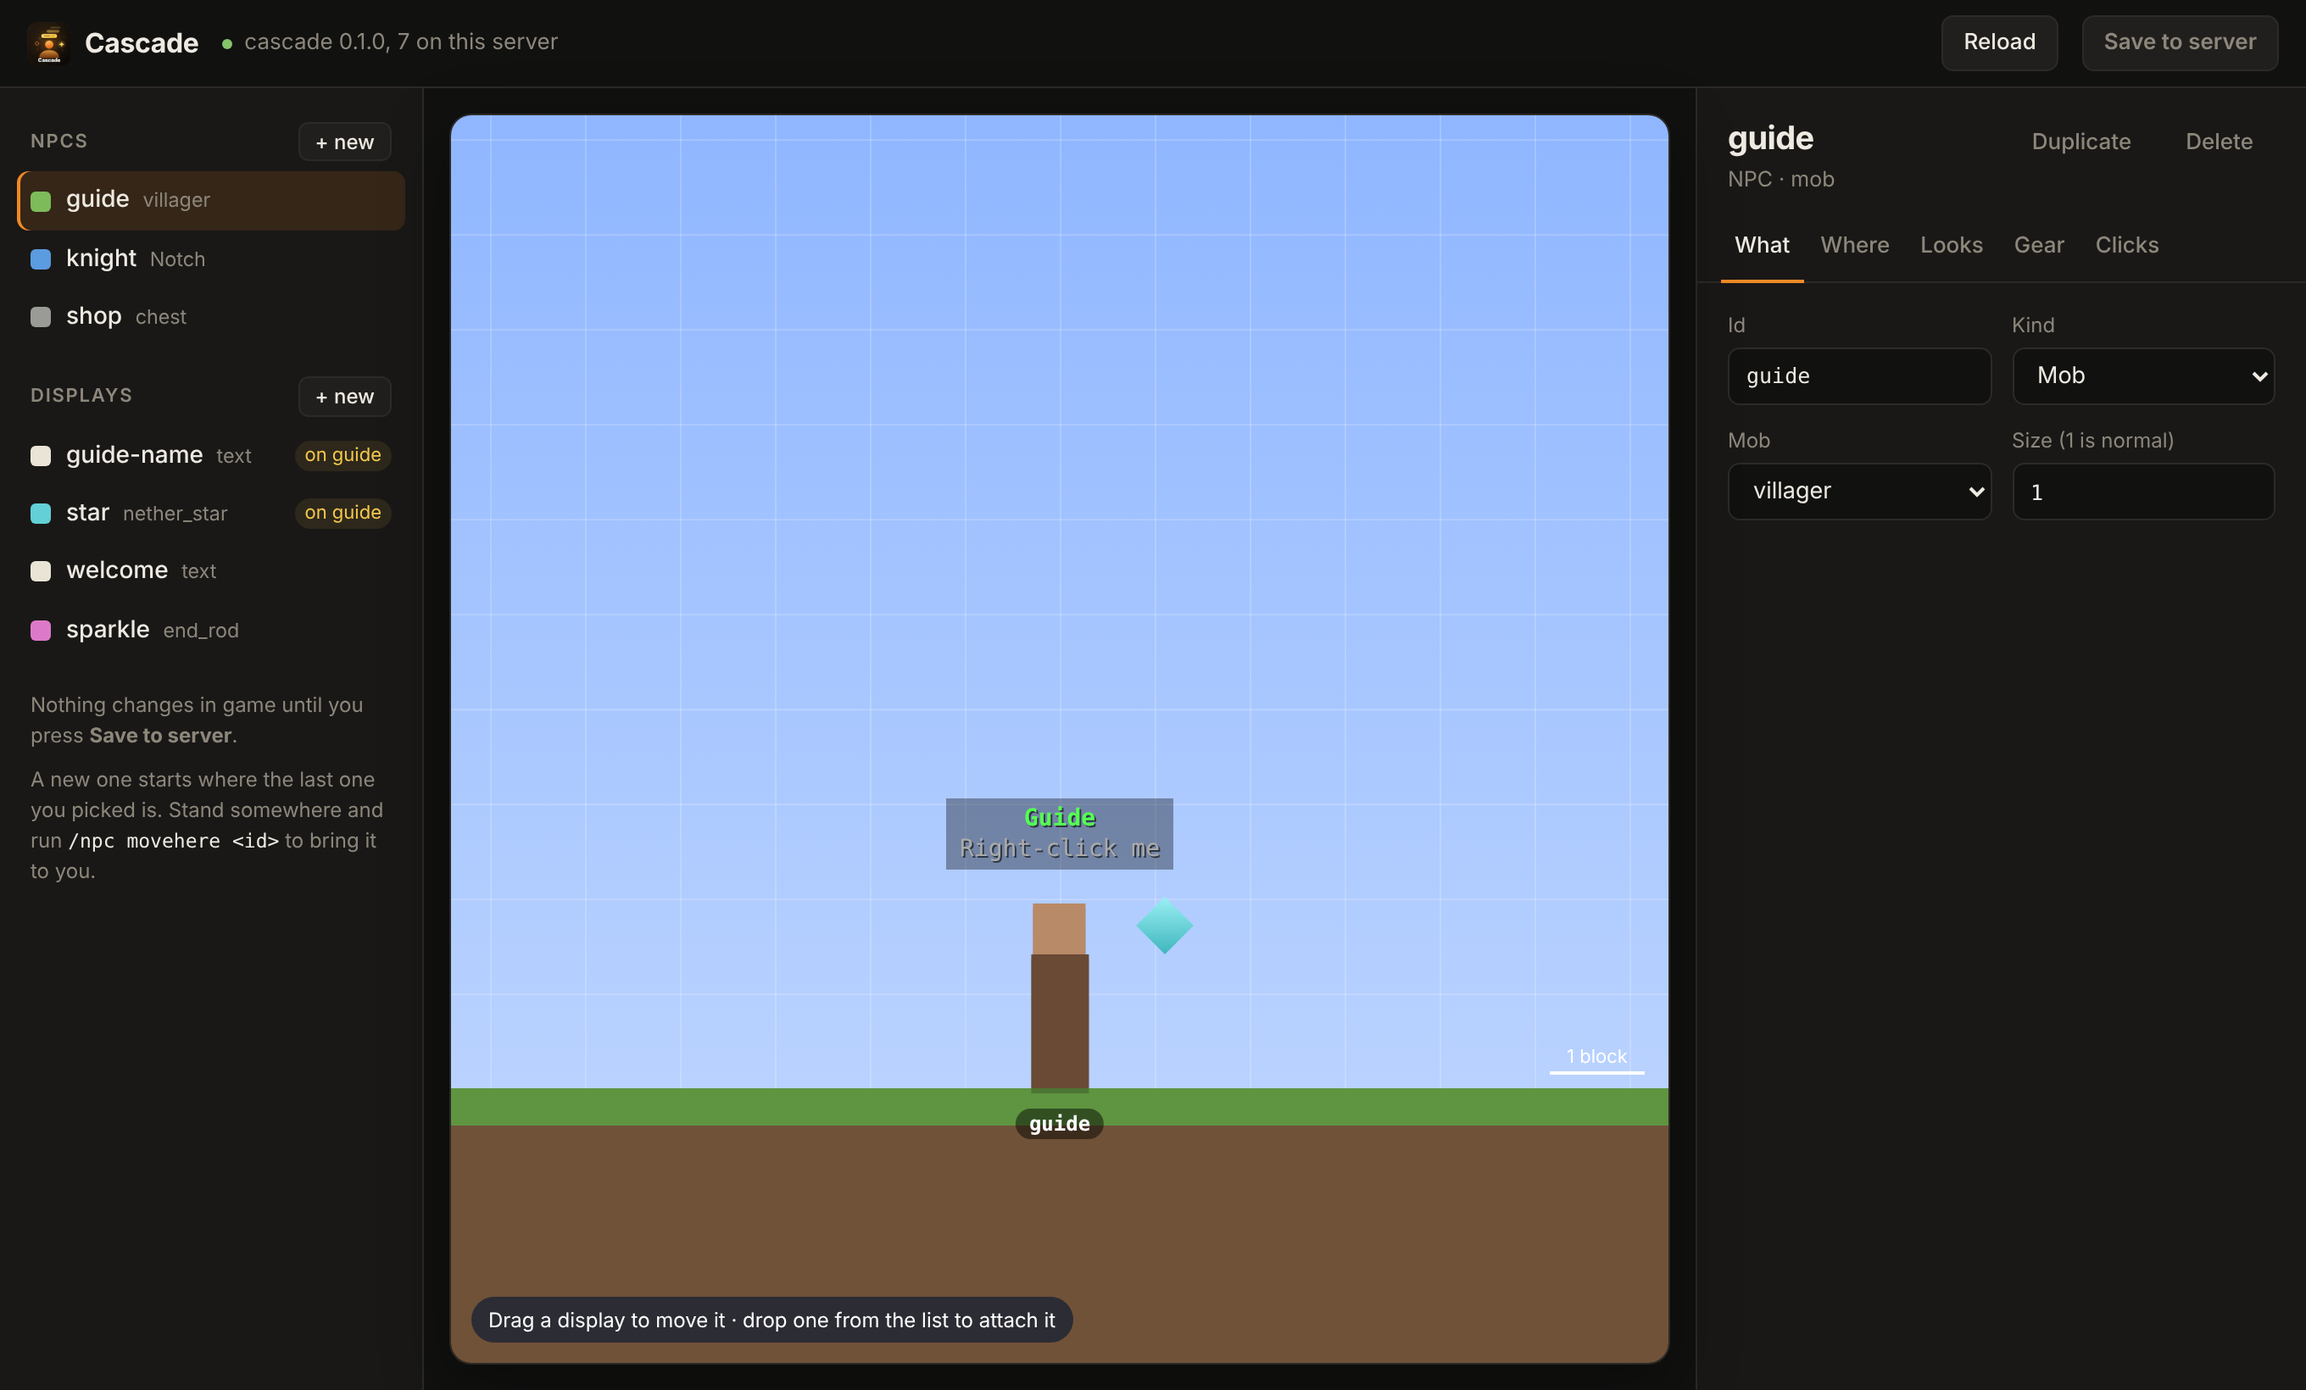
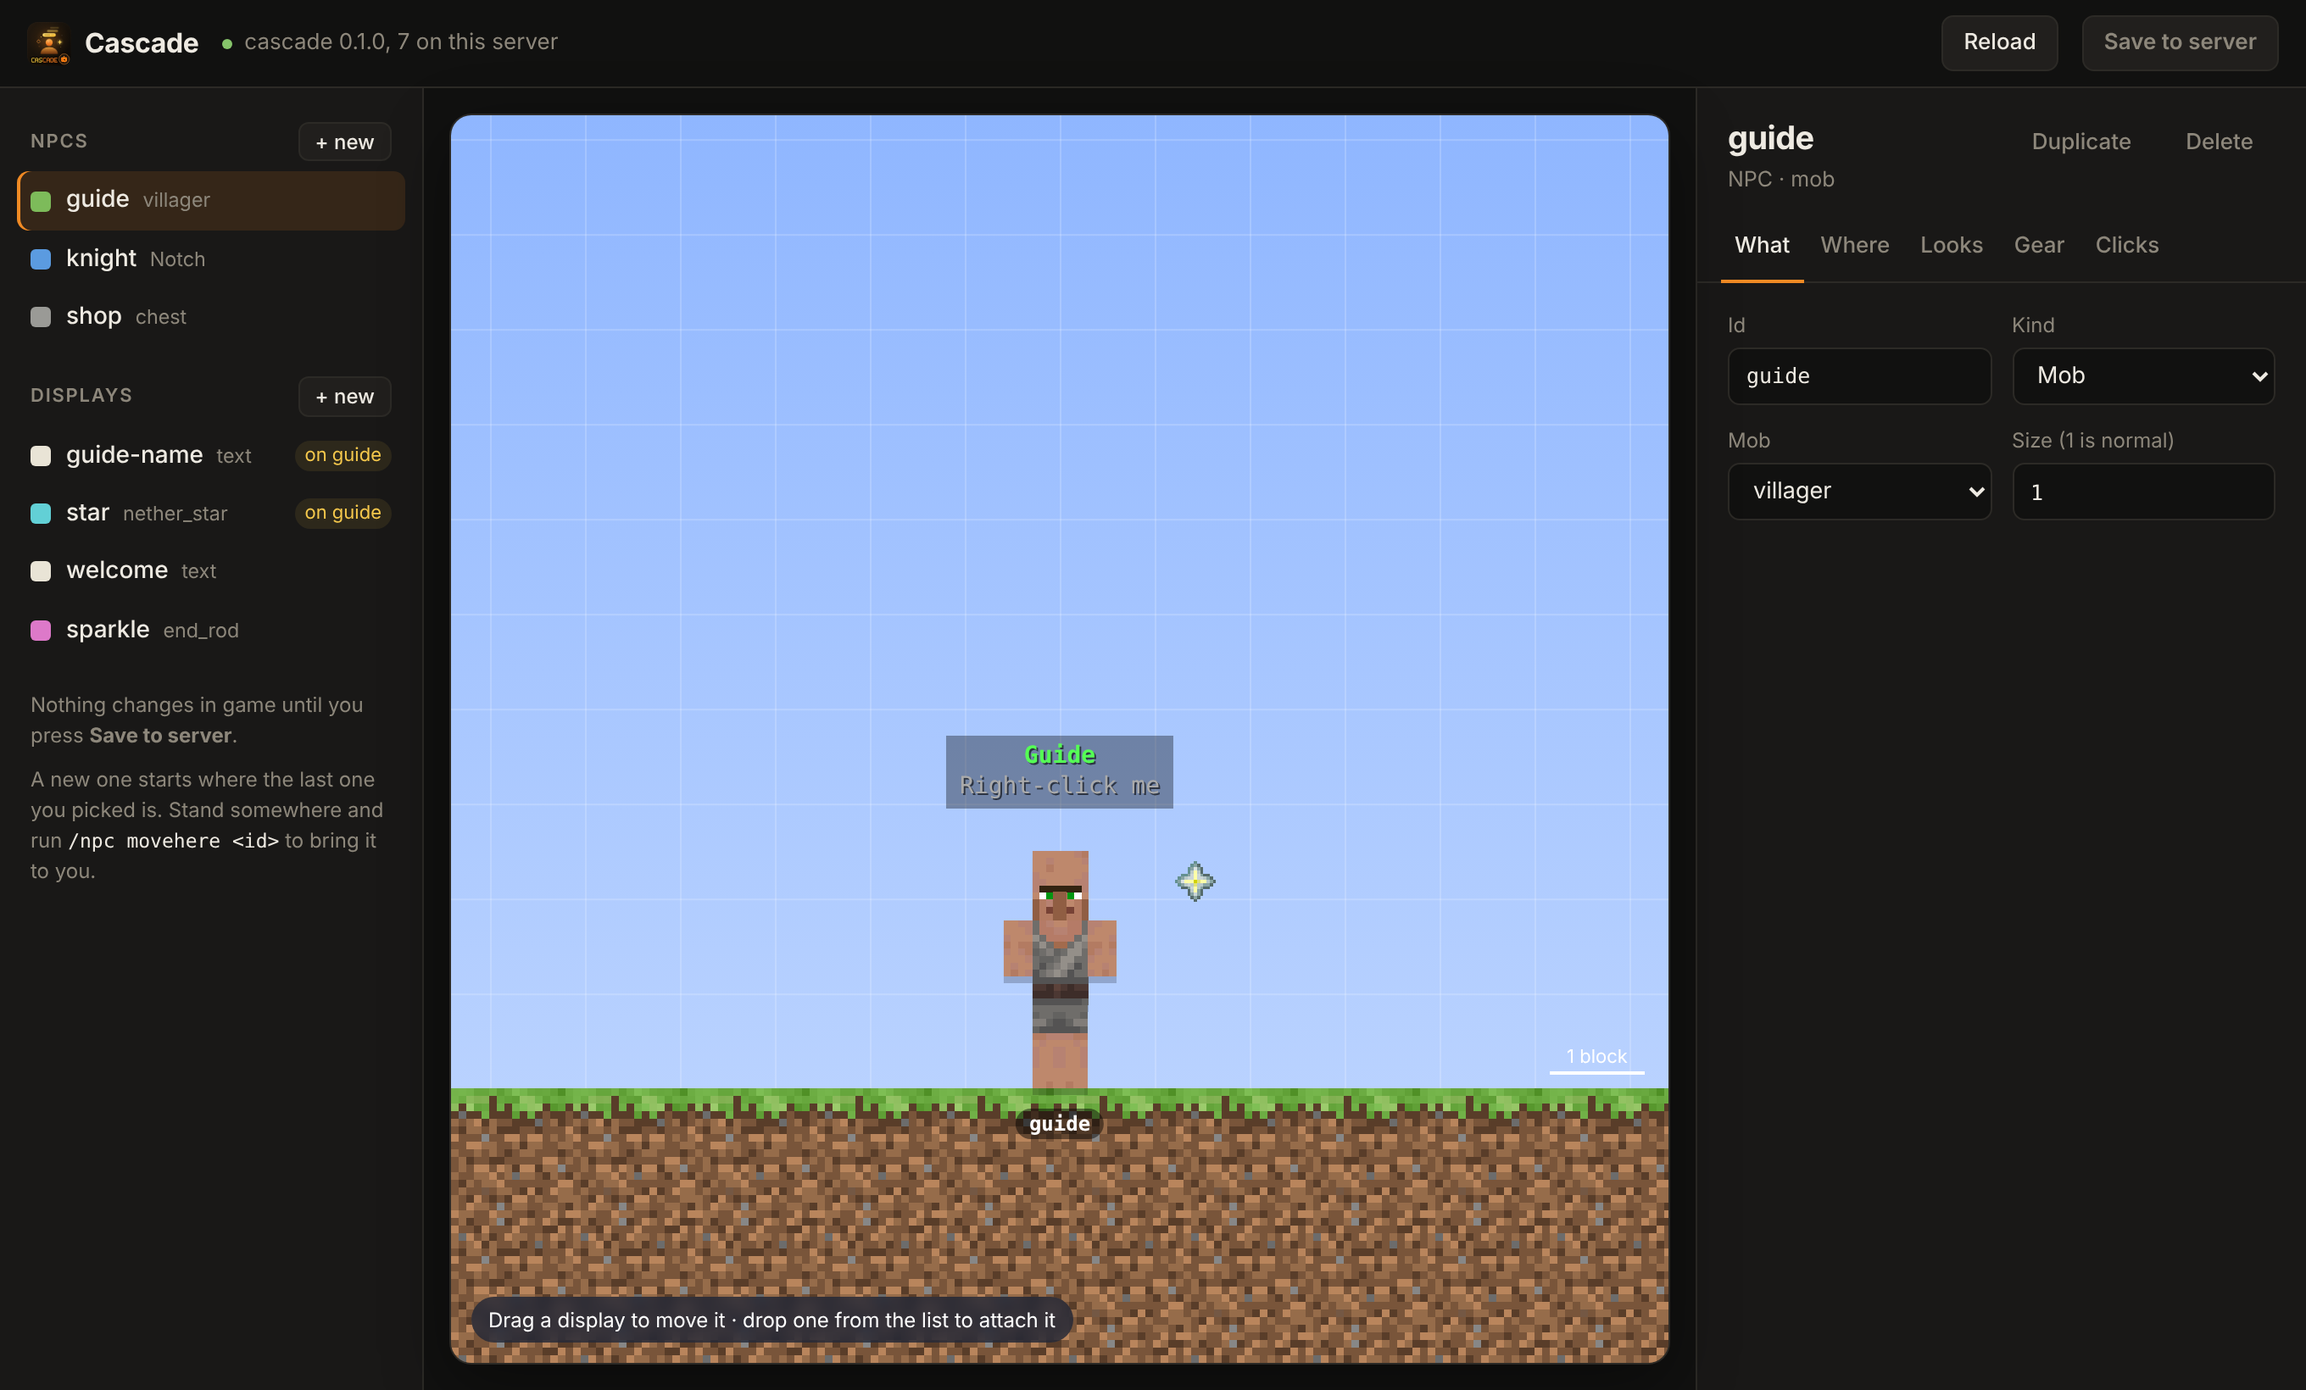
Web editor: draw mobs, players, blocks and items from the game's textures

Changed region(s): [[0.1875, 0.5287, 0.7188, 0.9951], [0.0, 0.0311, 0.0312, 0.0622]]

diff --git a/web/editor.html b/web/editor.html
@@ -80,20 +80,33 @@ textarea{height:auto;min-height:92px;padding:8px 10px;resize:vertical;font-famil
 .mobfig i{background:#b98a67;flex:0 0 28%;margin:0 4%} .mobfig b{background:#6a4a35;flex:1} .mobfig u{display:none}
 .cubefig{background:linear-gradient(135deg,#a8a8a4,#7d7d79)}
 .itemfig{background:linear-gradient(135deg,#9af0f4,#3fb6bd);transform:translateX(-50%) rotate(45deg)}
+/* everything drawn from the game's own textures keeps its hard pixels */
+.px,.part,.face,.ground,.map{image-rendering:pixelated}
+.ground{position:absolute;left:0;right:0;bottom:0;height:22%}
+.doll{display:block;filter:drop-shadow(0 4px 0 #0003)}
+.part{position:absolute;background-repeat:no-repeat}
+.egg{display:block;filter:drop-shadow(0 4px 0 #0003)}
+.skin{display:block;height:100%;width:auto;filter:drop-shadow(0 4px 0 #0003)}
+.face{position:absolute;inset:0;background:#8d8d89;overflow:hidden;box-shadow:inset 0 0 0 1px #0003}
+.face img{width:100%;height:100%;display:block}
+.sprite{display:block;width:100%;height:100%}
 .fig-name{position:absolute;bottom:-30px;transform:translateX(-50%);white-space:nowrap;color:#fff;font:600 12px var(--mono);background:#0007;padding:2px 8px;border-radius:99px}
 .chip{position:absolute;transform:translate(-50%,0);cursor:grab;white-space:pre;text-align:center;z-index:2;transition:box-shadow .12s}
 .chip:active{cursor:grabbing}
 .chip:hover{box-shadow:0 0 0 2px #fff9}
 .chip.sel{box-shadow:0 0 0 2px var(--accent)}
 .chip.k-text{background:#00000059;padding:3px 8px;font:14px/1.3 var(--mono);text-shadow:1px 1px 0 #0009}
-.chip.k-item{width:24px;height:24px;background:linear-gradient(135deg,#9af0f4,#3fb6bd);transform:translate(-50%,0) rotate(45deg)}
-.chip.k-block{width:32px;height:32px;background:linear-gradient(135deg,#a8a8a4,#7d7d79)}
+.chip.k-item{width:30px;height:30px}
+.chip.k-item.plain{background:linear-gradient(135deg,#9af0f4,#3fb6bd);transform:translate(-50%,0) rotate(45deg) scale(.75)}
+.chip.k-block{width:36px;height:36px}
+.chip.k-block.plain{background:linear-gradient(135deg,#a8a8a4,#7d7d79)}
 .chip.k-particle{width:36px;height:36px;border-radius:50%;background:radial-gradient(#fff 0 12%,#0000 14%) 0 0/11px 11px,radial-gradient(#ffd23f 0 14%,#0000 16%) 5px 6px/13px 13px}
 .tip{position:absolute;left:12px;bottom:12px;font-size:12px;color:#fff;background:#0b1a33aa;padding:5px 10px;border-radius:99px;backdrop-filter:blur(4px)}
 .ruler{position:absolute;right:14px;bottom:calc(22% + 8px);width:56px;border-bottom:2px solid #fff;color:#fff;font-size:11px;text-align:center}
 .map{background:#4d7d33 linear-gradient(#0000001a 1px,#0000 1px) 50% 50%/24px 24px,linear-gradient(90deg,#0000001a 1px,#0000 1px) 50% 50%/24px 24px;background-color:#4d7d33}
 .pin{position:absolute;transform:translate(-50%,-50%);display:flex;flex-direction:column;align-items:center;gap:4px;cursor:grab;font:600 11px var(--mono);color:#fff;white-space:nowrap}
 .pin span{background:#0007;padding:1px 7px;border-radius:99px}
+.pin .icon{width:26px;height:26px;position:relative;filter:drop-shadow(0 2px 0 #0005)} .pin.sel .icon{outline:2px solid var(--accent);outline-offset:3px;border-radius:4px}
 .pin .cube{width:16px;height:16px;box-shadow:0 2px 0 #0004} .pin.sel .cube{box-shadow:0 0 0 2px #fff,0 0 0 4px var(--accent)} .pin:not(.sel){opacity:.85}
 .world{margin-top:12px;height:110px;position:relative;overflow:hidden;border-radius:9px;background:linear-gradient(#8fb6ff 0,#b9d2ff 70%,#5f9440 70% 76%,#6f5238 76%)}
 .plate{position:absolute;left:50%;top:14%;transform:translateX(-50%);background:#00000059;padding:3px 8px;text-align:center;white-space:pre;font:14px/1.3 var(--mono);text-shadow:1px 1px 0 #0009}
@@ -152,25 +165,78 @@ function num(name, label, t, step) { return `<label>${label}<input type="number"
 function check(name, label, t) { return `<label class="check"><input type="checkbox" data-f="${name}" ${t[name] ? 'checked' : ''}>${label}</label>`; }
 function select(name, label, t, options) { return `<label>${label}<select data-f="${name}">${options.map(o => { const [v, l] = Array.isArray(o) ? o : [o, o]; return `<option value="${esc(v)}" ${t[name] === v ? 'selected' : ''}>${esc(l)}</option>`; }).join('')}</select></label>`; }
 function text(name, label, t, hint) { return `<label>${label}<input data-f="${name}" value="${esc(t[name])}" ${hint ? `placeholder="${esc(hint)}"` : ''}></label>`; }
-const BLOCK = 56, TILE = 24;
+const BLOCK = 72, TILE = 24;
 const TALL = {enderman: 2.9, iron_golem: 2.7, warden: 2.9, chicken: 0.7, cat: 0.7, rabbit: 0.5, fox: 0.7, bat: 0.9, parrot: 0.9, bee: 0.6, pig: 0.9, sheep: 1.3, cow: 1.4, wolf: 0.85, slime: 1, horse: 1.6, spider: 0.9, creeper: 1.7, villager: 1.95};
+// The game's own textures, fetched by the browser. If they can't be reached, plain shapes are
+// drawn instead.
+const TEX = 'https://raw.githubusercontent.com/InventivetalentDev/minecraft-assets/26.3/assets/minecraft/textures/';
+let textures = true;
+{ const probe = new Image(); probe.onerror = () => { textures = false; redraw(); }; probe.src = TEX + 'block/dirt.png'; }
+// An image that tries each path in turn; when none loads it hides itself and marks its parent.
+function tex(paths, cls) { return `<img class="px ${cls || ''}" draggable="false" alt="" src="${TEX}${paths[0]}.png" data-more="${esc(paths.slice(1).join('|'))}" onerror="nextTexture(this)">`; }
+function nextTexture(el) {
+  const more = el.dataset.more ? el.dataset.more.split('|') : [];
+  if (more.length) { el.dataset.more = more.slice(1).join('|'); el.src = TEX + more[0] + '.png'; }
+  else { el.onerror = null; el.style.display = 'none'; el.parentElement.classList.add('plain'); }
+}
+// Mobs whose texture sheet is laid out simply enough to draw from the front: [sheet, sheet
+// width, sheet height, figure width, figure height in texels, blocks tall, parts]. A part is
+// [from x, from y, width, height, to x, to y, mirrored].
+const BIPED = [[8, 8, 8, 8, 4, 0], [20, 20, 8, 12, 4, 8], [44, 20, 4, 12, 0, 8], [44, 20, 4, 12, 12, 8, 1], [4, 20, 4, 12, 4, 20], [4, 20, 4, 12, 8, 20, 1]];
+const THIN = [[8, 8, 8, 8, 2, 0], [20, 20, 8, 12, 2, 8], [42, 18, 2, 12, 0, 8], [42, 18, 2, 12, 10, 8, 1], [2, 18, 2, 12, 3, 20], [2, 18, 2, 12, 7, 20, 1]];
+const SHEETS = {
+  zombie: ['zombie/zombie', 64, 64, 16, 32, 1.95, BIPED], husk: ['zombie/husk', 64, 64, 16, 32, 1.95, BIPED], drowned: ['zombie/drowned', 64, 64, 16, 32, 1.95, BIPED],
+  skeleton: ['skeleton/skeleton', 64, 32, 12, 32, 1.99, THIN], stray: ['skeleton/stray', 64, 32, 12, 32, 1.99, THIN], bogged: ['skeleton/bogged', 64, 32, 12, 32, 1.99, THIN], wither_skeleton: ['skeleton/wither_skeleton', 64, 32, 12, 32, 2.4, THIN],
+  villager: ['villager/villager', 64, 64, 16, 34, 1.95, [[8, 8, 8, 10, 4, 0], [22, 26, 8, 12, 4, 10], [48, 26, 4, 8, 0, 10], [48, 26, 4, 8, 12, 10, 1], [4, 26, 4, 12, 4, 22], [4, 26, 4, 12, 8, 22, 1], [26, 2, 2, 4, 7, 6]]],
+  creeper: ['creeper/creeper', 64, 32, 8, 26, 1.7, [[8, 8, 8, 8, 0, 0], [20, 20, 8, 12, 0, 8], [4, 20, 4, 6, 0, 20], [4, 20, 4, 6, 4, 20, 1]]],
+};
+// A mob or player as it looks in game, standing on the ground; `null` if it has to be a shape.
+function creature(npc, k) {
+  if (!textures) return null;
+  if (npc.kind === 'player') {
+    const who = /^[A-Za-z0-9_]{1,16}$/.test(npc.what) ? npc.what : 'MHF_Steve';
+    return `<div class="fig" style="height:${BLOCK * 1.85 * k}px"><img class="skin" draggable="false" alt="" src="https://mc-heads.net/player/${who}/200" onerror="this.style.display='none'"></div>`;
+  }
+  const sheet = SHEETS[npc.what];
+  if (sheet) {
+    const [file, tw, th, w, h, tall, parts] = sheet, u = BLOCK * tall * k / h;
+    return `<div class="fig doll" style="width:${w * u}px;height:${h * u}px">${parts.map(([sx, sy, pw, ph, x, y, flip]) => `<i class="part" style="left:${x * u}px;top:${y * u}px;width:${pw * u}px;height:${ph * u}px;background-image:url(${TEX}entity/${file}.png);background-size:${tw * u}px ${th * u}px;background-position:${-sx * u}px ${-sy * u}px${flip ? ';transform:scaleX(-1)' : ''}"></i>`).join('')}</div>`;
+  }
+  // any other mob: its spawn egg, which is drawn to look like it
+  const size = BLOCK * Math.min(1.5, TALL[npc.what] || 1.3) * k;
+  return `<div class="fig" style="width:${size}px;height:${size}px">${tex([`item/${npc.what}_spawn_egg`], 'egg sprite')}</div>`;
+}
+// Blocks the game draws as models have no flat texture, so they borrow a close one.
+const LOOKS_LIKE = { chest: 'oak_planks', trapped_chest: 'oak_planks', ender_chest: 'obsidian', player_head: 'soul_sand', water: 'water_still', lava: 'lava_still' };
+// A block seen flat from the side.
+function flatBlock(name) {
+  name = LOOKS_LIKE[name] || name;
+  return `<div class="face">${tex([`block/${name}_side`, `block/${name}`, `block/${name}_front`, `block/${name}_top`, `block/${name}_planks`])}</div>`;
+}
+function itemSprite(name) { return tex([`item/${name}`, `block/${name}`, `block/${name}_top`, `block/${name}_side`], 'sprite'); }
 // The NPC from the side, and the displays that ride on it. `npc` may be missing for a display
 // that stands alone.
 function stage(npc, selected) {
   if (!npc) return '';
   const k = npc.scale || 1, chips = state.things.map((d, i) => [d, i]).filter(([d]) => d.group === 'display' && d.attached === npc.id);
   let fig;
-  if (npc.kind === 'block') fig = `<div class="fig cubefig" style="width:${BLOCK * k}px;height:${BLOCK * k}px;left:${BLOCK * k / 2}px"></div>`;
-  else if (npc.kind === 'item') fig = `<div class="fig itemfig" style="width:${BLOCK * 0.45 * k}px;height:${BLOCK * 0.45 * k}px;bottom:${BLOCK * 0.25 * k}px"></div>`;
-  else { const h = (npc.kind === 'player' ? 1.8 : TALL[npc.what] || 1.8) * k; fig = `<div class="fig ${npc.kind}fig" style="width:${BLOCK * 0.6 * k}px;height:${BLOCK * h}px"><i></i><b></b><u></u></div>`; }
-  const drawn = chips.map(([d, i]) => `<div class="chip k-${esc(d.kind)} ${i === selected ? 'sel' : ''}" data-chip="${i}" title="${esc(d.id)}: drag to move" style="left:${d.offset[0] * BLOCK}px;bottom:${d.offset[1] * BLOCK}px">${d.kind === 'text' ? d.lines.map(mc).join('\n') : ''}</div>`).join('');
-  return `<div class="stage" data-stage="${esc(npc.id)}"><div class="grid-lines"></div><div class="origin">${fig}<span class="fig-name">${esc(npc.id)}</span>${drawn}</div>
+  if (npc.kind === 'block') fig = textures
+    ? `<div class="fig" style="width:${BLOCK * k}px;height:${BLOCK * k}px;left:${BLOCK * k / 2}px">${flatBlock(npc.what)}</div>`
+    : `<div class="fig cubefig" style="width:${BLOCK * k}px;height:${BLOCK * k}px;left:${BLOCK * k / 2}px"></div>`;
+  else if (npc.kind === 'item') fig = textures
+    ? `<div class="fig" style="width:${BLOCK * 0.6 * k}px;height:${BLOCK * 0.6 * k}px;bottom:${BLOCK * 0.1 * k}px">${itemSprite(npc.what)}</div>`
+    : `<div class="fig itemfig" style="width:${BLOCK * 0.45 * k}px;height:${BLOCK * 0.45 * k}px;bottom:${BLOCK * 0.25 * k}px"></div>`;
+  else { const h = (npc.kind === 'player' ? 1.8 : TALL[npc.what] || 1.8) * k; fig = creature(npc, k) || `<div class="fig ${npc.kind}fig" style="width:${BLOCK * 0.6 * k}px;height:${BLOCK * h}px"><i></i><b></b><u></u></div>`; }
+  const inside = d => d.kind === 'text' ? d.lines.map(mc).join('\n') : !textures ? '' : d.kind === 'item' ? itemSprite(d.what) : d.kind === 'block' ? flatBlock(d.what) : '';
+  const drawn = chips.map(([d, i]) => `<div class="chip k-${esc(d.kind)} ${textures || d.kind === 'text' || d.kind === 'particle' ? '' : 'plain'} ${i === selected ? 'sel' : ''}" data-chip="${i}" title="${esc(d.id)}: drag to move" style="left:${d.offset[0] * BLOCK}px;bottom:${d.offset[1] * BLOCK}px">${inside(d)}</div>`).join('');
+  return `<div class="stage" data-stage="${esc(npc.id)}"><div class="ground" style="${textures ? `background:url(${TEX}block/grass_block_side.png) 0 0/${BLOCK}px ${BLOCK}px repeat-x,url(${TEX}block/dirt.png) 0 0/${BLOCK}px ${BLOCK}px` : ''}"></div><div class="grid-lines"></div><div class="origin">${fig}<span class="fig-name">${esc(npc.id)}</span>${drawn}</div>
     <span class="tip">${chips.length ? 'Drag a display to move it' : 'Nothing is attached yet'} · drop one from the list to attach it</span><span class="ruler">1 block</span></div>`;
 }
 // Everything that stands on its own in the same world, from above, around `t`.
 function map(t) {
   const pins = state.things.map((o, i) => [o, i]).filter(([o]) => !o.attached && o.world === t.world && Math.abs(o.x - t.x) < 40 && Math.abs(o.z - t.z) < 14);
-  return `<div class="map" data-map><span class="tip">Seen from above · drag to move, snaps to half blocks</span>${pins.map(([o, i]) => `<div class="pin ${o === t ? 'sel' : ''}" data-pin="${i}" style="left:calc(50% + ${(o.x - t.x) * TILE}px);top:calc(50% + ${(o.z - t.z) * TILE}px)"><i class="cube k-${esc(o.kind)}"></i><span>${esc(o.id)}</span></div>`).join('')}</div>`;
+  const icon = o => !textures ? `<i class="cube k-${esc(o.kind)}"></i>` : `<div class="icon">${o.kind === 'item' ? itemSprite(o.what) : o.kind === 'block' ? `<div style="position:absolute;inset:3px">${flatBlock(o.what)}</div>` : o.kind === 'player' ? `<img class="sprite px" draggable="false" alt="" src="https://mc-heads.net/avatar/${/^[A-Za-z0-9_]{1,16}$/.test(o.what) ? o.what : 'MHF_Steve'}/26">` : o.kind === 'mob' ? tex([`item/${o.what}_spawn_egg`], 'sprite') : `<i class="cube k-${esc(o.kind)}" style="position:absolute;left:5px;top:5px"></i>`}</div>`;
+  return `<div class="map" data-map style="${textures ? `background:linear-gradient(#5fa83acc,#5fa83acc),url(${TEX}block/grass_block_top.png) 50% 50%/${TILE}px ${TILE}px;background-blend-mode:multiply` : ''}"><span class="tip">Seen from above · drag to move, snaps to half blocks</span>${pins.map(([o, i]) => `<div class="pin ${o === t ? 'sel' : ''}" data-pin="${i}" style="left:calc(50% + ${(o.x - t.x) * TILE}px);top:calc(50% + ${(o.z - t.z) * TILE}px)">${icon(o)}<span>${esc(o.id)}</span></div>`).join('')}</div>`;
 }
 function editor() {
   const el = $('#editor'), t = state.things[current];

diff --git a/README.md b/README.md
@@ -55,6 +55,8 @@ Type `/npc web` (or `/display web`) and click **open the editor**.
 
 ![The web editor](market/screenshot-editor.png)
 
+The middle shows mobs, players, blocks and items as they look in game. Those pictures are fetched by your browser from GitHub (game textures) and mc-heads.net (player skins); without internet the editor still works and draws plain shapes instead.
+
 - **Left:** every NPC and display. Pick one to work on it.
 - **Middle:** the NPC from the side, with the displays attached to it. Drag a display to move it; drop one from the list onto the NPC to attach it. For something that stands on its own, the middle is a map from above: drag to move it.
 - **Right:** its settings: kind, text with a live preview of the colours, position, looks, gear and click actions.
